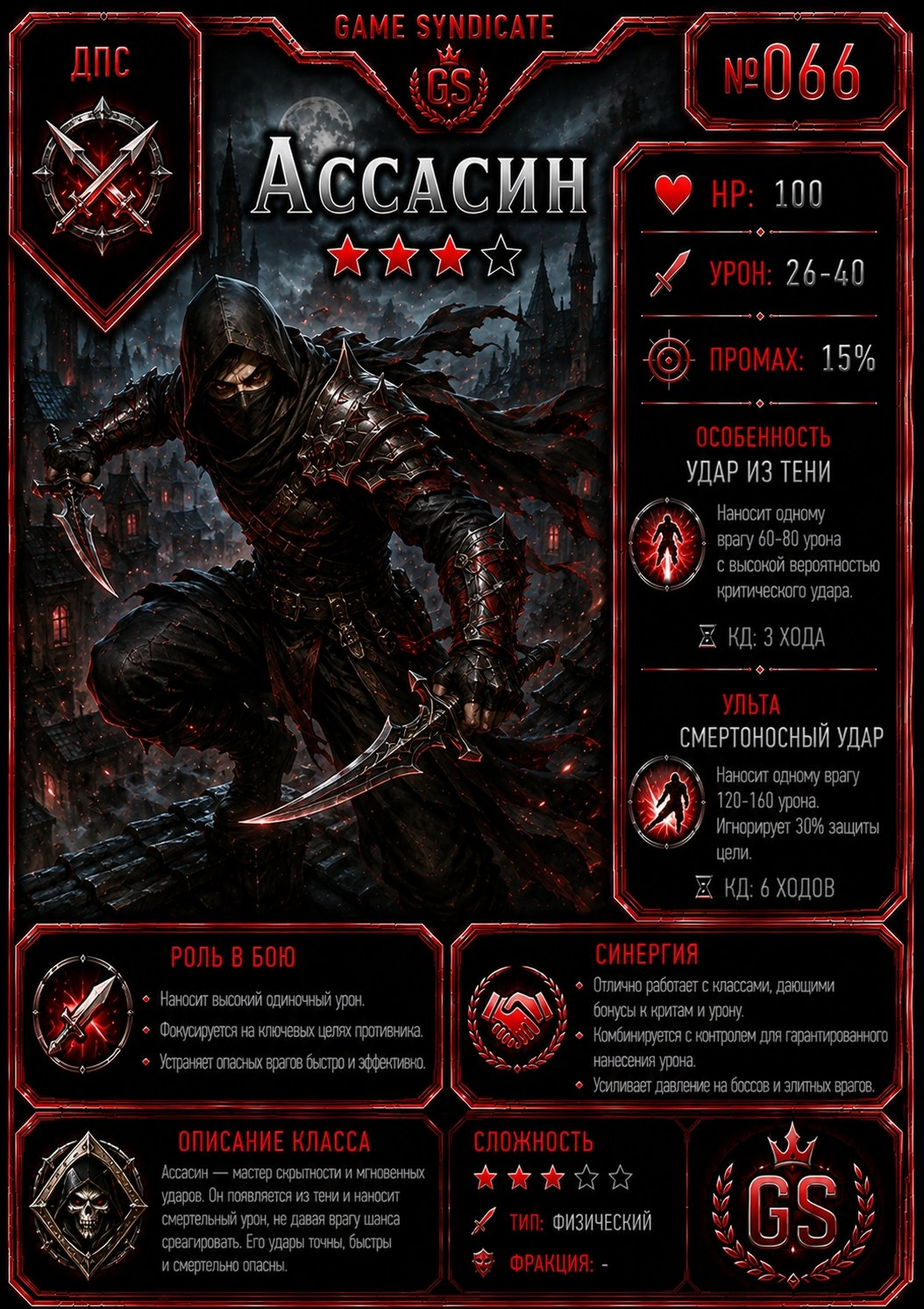
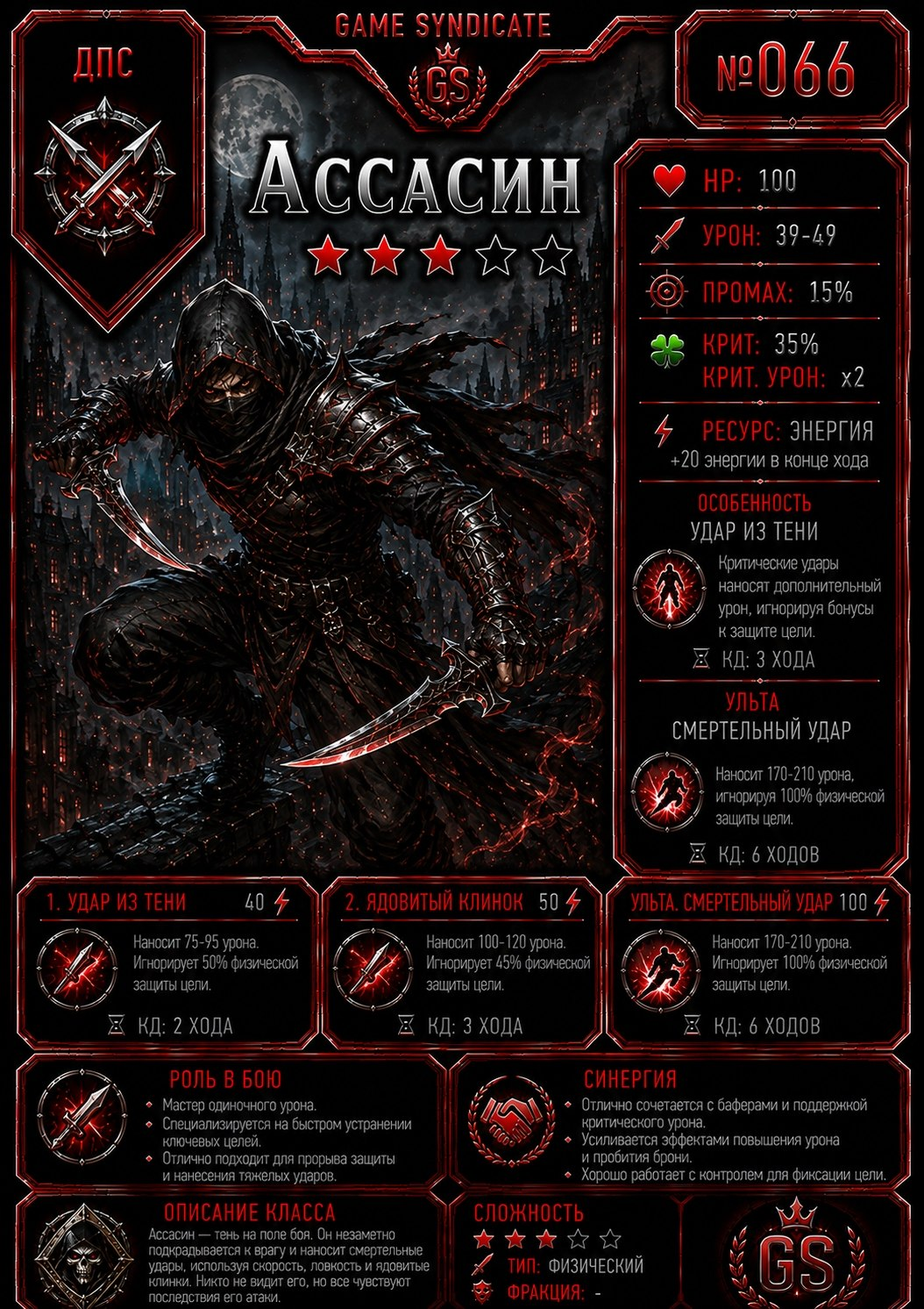
rgn

diff --git a/services/worldBoss/worldBossSystem.js b/services/worldBoss/worldBossSystem.js
@@ -626,12 +626,21 @@ function useSkill(b, p, c, e, state, targetId) {
     case 'cleric': { const t = targetById(id, targetId) || p, sacrifice = Math.min(rand(30, 45), Math.max(0, p.hp - 1)); if (sacrifice <= 0) return `💔 <@${u}> не хватает HP для жертвы.`; db.prepare('UPDATE world_boss_players SET hp=? WHERE battle_id=? AND user_id=?').run(p.hp - sacrifice, id, u); const healed = healPlayer(id, u, t, sacrifice); return `💚 <@${u}> жертвует **${sacrifice} HP** и лечит <@${t.user_id}> на **${healed} HP**.`; }
     case 'priest': { state.summons = (state.summons || []).filter(x => x.owner !== u || x.type !== 'angel'); state.summons.push({ owner: u, type: 'angel', icon: '👼', name: 'Ангел-хранитель', hp: 75, maxHp: 75, heal: [12, 20], rounds: 4, support: true }); saveState(b, state); return `👼 <@${u}> призывает Ангела-хранителя на 4 хода. В конце каждого раунда ангел лечит всю живую группу.`; }
     case 'bard': { const t = targetById(id, targetId) || p, te = effects(t); te.damageBuffTurns = 3; te.damageBuff = 0.15; updateEffects(id, t.user_id, te); return `🎵 <@${u}> усиливает <@${t.user_id}> на 15% на 3 хода.`; }
-    case 'assassin': { const r = hurtEnemy(b, state, rand(60, 80), 'physical', 'assassin', 0.5); db.prepare('UPDATE world_boss_players SET damage_done=damage_done+?,contribution=contribution+? WHERE battle_id=? AND user_id=?').run(r.dealt, r.dealt, id, u); return `🗡 <@${u}> наносит **${r.dealt}** теневого урона.`; }
-    case 'archer': { let total = 0; for (let i = 0; i < 3; i++) if (Math.random() * 100 >= c.miss) total += hurtEnemy(b, state, rand(25, 40), 'physical', 'archer').dealt; db.prepare('UPDATE world_boss_players SET damage_done=damage_done+?,contribution=contribution+? WHERE battle_id=? AND user_id=?').run(total, total, id, u); return `🏹 <@${u}> выпускает 3 стрелы: **${total}** урона.`; }
-    case 'mage': { const r = hurtEnemy(b, state, rand(45, 65), 'magic', 'mage'); db.prepare('UPDATE world_boss_players SET damage_done=damage_done+?,contribution=contribution+? WHERE battle_id=? AND user_id=?').run(r.dealt, r.dealt, id, u); return `🔥 <@${u}> наносит **${r.dealt}** магического урона.`; }
+    case 'assassin': { const r = hurtEnemy(b, state, rand(75, 95), 'physical', 'assassin', 0.5); db.prepare('UPDATE world_boss_players SET damage_done=damage_done+?,contribution=contribution+? WHERE battle_id=? AND user_id=?').run(r.dealt, r.dealt, id, u); return `🗡 <@${u}> наносит **${r.dealt}** теневого урона.`; }
+    case 'archer': { let total = 0; for (let i = 0; i < 3; i++) if (Math.random() * 100 >= c.miss) total += hurtEnemy(b, state, rand(28, 36), 'physical', 'archer').dealt; db.prepare('UPDATE world_boss_players SET damage_done=damage_done+?,contribution=contribution+? WHERE battle_id=? AND user_id=?').run(total, total, id, u); return `🏹 <@${u}> выпускает 3 стрелы: **${total}** урона.`; }
+    case 'mage': { const r = hurtEnemy(b, state, rand(60, 80), 'magic', 'mage'); db.prepare('UPDATE world_boss_players SET damage_done=damage_done+?,contribution=contribution+? WHERE battle_id=? AND user_id=?').run(r.dealt, r.dealt, id, u); return `🔥 <@${u}> наносит **${r.dealt}** магического урона.`; }
     case 'berserker': { let total = 0, hits = 0; for (let i = 0; i < 3; i++) { if (Math.random() * 100 < c.miss) continue; const r = hurtEnemy(b, state, Math.round(applyDamageBuff(p, rand(...c.damage)) * 0.62), 'physical', 'berserker'); total += r.dealt; hits++; } db.prepare('UPDATE world_boss_players SET damage_done=damage_done+?,contribution=contribution+? WHERE battle_id=? AND user_id=?').run(total,total,id,u); return `🪓 <@${u}> проводит тройной удар: **${hits}/3** попаданий, **${total}** урона.`; }
     case 'engineer': state.summons = (state.summons || []).filter(x => x.owner !== u || x.type !== 'turret'); state.summons.push({ owner: u, type: 'turret', icon: '🔫', name: 'Турель', hp: 80, maxHp: 80, damage: [16, 22], miss: 8, rounds: 4, damageType: 'physical' }); saveState(b, state); return `🔧 <@${u}> устанавливает турель на 4 раунда.`;
     case 'necromancer': { state.summons = state.summons || []; const own = state.summons.filter(x => x.owner === u && x.type === 'skeleton'); if (own.length >= 2) state.summons.splice(state.summons.indexOf(own[0]), 1); state.summons.push({ owner: u, type: 'skeleton', icon: '💀', name: 'Скелет', hp: 55, maxHp: 55, damage: [13, 19], miss: 12, rounds: 4, damageType: 'physical' }); saveState(b, state); return `💀 <@${u}> призывает **1 скелета** на 4 раунда.`; }
+
+    case 'pyromancer': { const r=hurtEnemy(b,state,rand(50,70),'magic','pyromancer'); state.burnStacks=Math.min(5,Number(state.burnStacks||0)+1); saveState(b,state); db.prepare('UPDATE world_boss_players SET damage_done=damage_done+?,contribution=contribution+? WHERE battle_id=? AND user_id=?').run(r.dealt,r.dealt,id,u); return `🔥 <@${u}> наносит **${r.dealt}** урона и накладывает Горение (${state.burnStacks}/5).`; }
+    case 'duelist': { const r=hurtEnemy(b,state,rand(55,70),'physical','duelist'); e.combo=Math.min(5,Number(e.combo||0)+1); db.prepare('UPDATE world_boss_players SET damage_done=damage_done+?,contribution=contribution+? WHERE battle_id=? AND user_id=?').run(r.dealt,r.dealt,id,u); return `⚔ <@${u}> делает выпад на **${r.dealt}** урона. Комбо: ${e.combo}/5.`; }
+    case 'reaper': { const r=hurtEnemy(b,state,rand(70,90),'physical','reaper'); db.prepare('UPDATE world_boss_players SET damage_done=damage_done+?,contribution=contribution+? WHERE battle_id=? AND user_id=?').run(r.dealt,r.dealt,id,u); return `☠ <@${u}> применяет Жатву: **${r.dealt}** урона.`; }
+    case 'mindlord': { const r=hurtEnemy(b,state,rand(60,80),'magic','mindlord'); db.prepare('UPDATE world_boss_players SET damage_done=damage_done+?,contribution=contribution+? WHERE battle_id=? AND user_id=?').run(r.dealt,r.dealt,id,u); return `🧠 <@${u}> наносит **${r.dealt}** психического урона.`; }
+    case 'druid': { const r=hurtEnemy(b,state,rand(45,60),'magic','druid'); state.bossWeakenRounds=2; state.bossWeaken=0.15; saveState(b,state); db.prepare('UPDATE world_boss_players SET damage_done=damage_done+?,contribution=contribution+? WHERE battle_id=? AND user_id=?').run(r.dealt,r.dealt,id,u); return `🌿 <@${u}> опутывает босса: **${r.dealt}** урона и -15% урона босса на 2 раунда.`; }
+    case 'shaman': state.teamDamageTotemRounds=3; state.teamDamageTotem=0.15; saveState(b,state); return `🪬 <@${u}> устанавливает Тотем силы: +15% урона союзников на 3 раунда.`;
+    case 'chronomancer': { const targets=validTargets(id,'alive').filter(x=>x.user_id!==u); const t=targets[0]||p; if(resourceType(t.class_key)==='mana') db.prepare('UPDATE world_boss_players SET mana=MIN(100,mana+30) WHERE battle_id=? AND user_id=?').run(id,t.user_id); else db.prepare('UPDATE world_boss_players SET energy=MIN(100,energy+30) WHERE battle_id=? AND user_id=?').run(id,t.user_id); return `⏳ <@${u}> ускоряет <@${t.user_id}> и восстанавливает 30 ресурса.`; }
+    case 'illusionist': state.summons=(state.summons||[]).filter(x=>x.owner!==u||x.type!=='illusion'); state.summons.push({owner:u,type:'illusion',icon:'🎭',name:'Иллюзия',hp:40,maxHp:40,damage:[0,0],miss:100,rounds:4,support:true}); saveState(b,state); return `🎭 <@${u}> создаёт иллюзию с 40 HP, способную принять атаку.`;
     default: return 'Способность использована.';
   }
 }
@@ -680,7 +689,7 @@ function useSecondSkill(b, p, c, e, state) {
       return `🎻 <@${u}> создаёт Диссонанс: **${r.dealt} магического урона**, следующая атака босса ослаблена на 12%.`;
     }
     case 'assassin': {
-      const r = hurtEnemy(b, state, rand(82, 112), 'physical', 'assassin', 0.45);
+      const r = hurtEnemy(b, state, rand(100, 120), 'physical', 'assassin', 0.45);
       db.prepare('UPDATE world_boss_players SET damage_done=damage_done+?,contribution=contribution+? WHERE battle_id=? AND user_id=?').run(r.dealt, r.dealt, id, u);
       return `☠ <@${u}> применяет Ядовитый клинок и наносит **${r.dealt} урона**, частично игнорируя защиту.`;
     }
@@ -691,18 +700,18 @@ function useSecondSkill(b, p, c, e, state) {
       return `🎯 <@${u}> ставит Метку охотника: босс получает **+15% урона на 2 раунда**.`;
     }
     case 'mage': {
-      const r = hurtEnemy(b, state, rand(58, 78), 'magic', 'mage');
+      const r = hurtEnemy(b, state, rand(65, 85), 'magic', 'mage');
       state.rage = Math.max(0, Number(state.rage || 0) - 25);
       saveState(b, state);
       db.prepare('UPDATE world_boss_players SET damage_done=damage_done+?,contribution=contribution+? WHERE battle_id=? AND user_id=?').run(r.dealt, r.dealt, id, u);
       return `❄ <@${u}> применяет Ледяные оковы: **${r.dealt} урона** и снижает ярость босса на **25**.`;
     }
     case 'berserker': {
-      const sacrifice = Math.max(1, Math.round(p.max_hp * 0.15));
+      const sacrifice = 20;
       const hp = Math.max(1, Number(p.hp || 1) - sacrifice);
-      db.prepare('UPDATE world_boss_players SET hp=?,energy=MIN(100,energy+60) WHERE battle_id=? AND user_id=?').run(hp, id, u);
+      db.prepare('UPDATE world_boss_players SET hp=? WHERE battle_id=? AND user_id=?').run(hp, id, u);
       e.doubleNext = true;
-      return `🩸 <@${u}> использует Кровавый рёв: теряет **${sacrifice} HP**, получает **+60 энергии**, следующая атака удвоена.`;
+      return `🩸 <@${u}> использует Кровавый рёв: теряет **${sacrifice} HP**, следующая атака удвоена.`;
     }
     case 'engineer': {
       let repaired = 0;
@@ -727,6 +736,15 @@ function useSecondSkill(b, p, c, e, state) {
       db.prepare('UPDATE world_boss_players SET damage_done=damage_done+?,contribution=contribution+? WHERE battle_id=? AND user_id=?').run(r.dealt, r.dealt + healed, id, u);
       return `🕯 <@${u}> применяет Похищение жизни: **${r.dealt} урона** и восстанавливает **${healed} HP**.`;
     }
+
+    case 'pyromancer': { const r=hurtEnemy(b,state,rand(65,85),'magic','pyromancer'); state.burnStacks=Math.min(5,Number(state.burnStacks||0)+1); saveState(b,state); db.prepare('UPDATE world_boss_players SET damage_done=damage_done+?,contribution=contribution+? WHERE battle_id=? AND user_id=?').run(r.dealt,r.dealt,id,u); return `🔥 <@${u}> применяет Пламя: **${r.dealt}** урона, Горение ${state.burnStacks}/5.`; }
+    case 'duelist': e.counterAttack=true; return `⚔ <@${u}> готовит Ответный удар и контратакует первую атаку босса до своего следующего хода.`;
+    case 'reaper': { const hp=Math.max(1,p.hp-20); db.prepare('UPDATE world_boss_players SET hp=? WHERE battle_id=? AND user_id=?').run(hp,id,u); e.doubleNext=true; return `🩸 <@${u}> платит 20 HP. Следующая атака наносит двойной урон.`; }
+    case 'mindlord': { const r=hurtEnemy(b,state,rand(65,75),'magic','mindlord'); state.magicVulnerabilityRounds=2; state.magicVulnerability=0.20; saveState(b,state); db.prepare('UPDATE world_boss_players SET damage_done=damage_done+?,contribution=contribution+? WHERE battle_id=? AND user_id=?').run(r.dealt,r.dealt,id,u); return `🧠 <@${u}> наносит **${r.dealt}** урона и повышает получаемый магический урон цели на 20% на 2 раунда.`; }
+    case 'druid': { for(const t of validTargets(id,'alive')){const te=effects(t);te.groupDamageRounds=2;te.groupDamage=Math.max(Number(te.groupDamage||0),0.15);te.accuracyBuffRounds=2;te.accuracyBuff=0.15;te.protectionBuffRounds=2;te.protectionBuff=0.15;updateEffects(id,t.user_id,te);} return `🐻🐺🦉 <@${u}> призывает Дух зверя: команда получает усиление выбранного духа.`; }
+    case 'shaman': state.teamDefenseTotemRounds=3; state.teamDefenseTotem=0.15; saveState(b,state); return `🛡 <@${u}> устанавливает Тотем защиты: -15% входящего урона на 3 раунда.`;
+    case 'chronomancer': { const targets=validTargets(id,'alive').filter(x=>x.user_id!==u); const t=targets[0]||p,te=effects(t); te.skillCd=Math.max(0,Number(te.skillCd||0)-1); te.skill2Cd=Math.max(0,Number(te.skill2Cd||0)-1); updateEffects(id,t.user_id,te); return `⏪ <@${u}> уменьшает КД способности <@${t.user_id}> на 1 ход.`; }
+    case 'illusionist': state.bossAccuracyDownRounds=2; state.bossAccuracyDown=0.20; saveState(b,state); return `🌫 <@${u}> создаёт Мираж: точность босса снижена на 20% на 2 раунда.`;
     default:
       return 'Вторая способность использована.';
   }
@@ -755,12 +773,21 @@ function useUlt(b, p, c, e, state, targetId) {
       }
       return `🎼 <@${u}> исполняет Гимн героев: вся группа получает **+20% урона на 2 раунда** и восстанавливает **20% максимального HP**${totalHealed ? ` — всего **${totalHealed} HP** (${healedTargets.join(', ')})` : ''}.`;
     }
-    case 'assassin': { const r = hurtEnemy(b, state, rand(120, 160), 'physical', 'assassin', 1); db.prepare('UPDATE world_boss_players SET damage_done=damage_done+?,contribution=contribution+? WHERE battle_id=? AND user_id=?').run(r.dealt, r.dealt, id, u); return `☠ <@${u}> наносит **${r.dealt}** смертельного урона.`; }
+    case 'assassin': { const r = hurtEnemy(b, state, rand(170, 210), 'physical', 'assassin', 1); db.prepare('UPDATE world_boss_players SET damage_done=damage_done+?,contribution=contribution+? WHERE battle_id=? AND user_id=?').run(r.dealt, r.dealt, id, u); return `☠ <@${u}> наносит **${r.dealt}** смертельного урона.`; }
     case 'archer': { const enemies = 1 + (state.minions || []).length; const pool = 240; const share = Math.floor(pool / Math.max(1, enemies)); let total = 0; for (const m of state.minions || []) { const d = Math.min(m.hp, share); const died = m.hp > 0 && m.hp - d <= 0; m.hp -= d; total += d; if (died) { state.log.push(`💀 Миньон босса **${m.name}** уничтожен градом стрел!`); state.deathStats = state.deathStats || { players: 0, bossMinions: 0, playerSummons: 0 }; state.deathStats.bossMinions = Number(state.deathStats.bossMinions || 0) + 1; } } state.minions = (state.minions || []).filter(x => x.hp > 0); const bossDamage = Math.min(b.boss_hp, pool - share * (enemies - 1)); db.prepare('UPDATE world_boss_battles SET boss_hp=MAX(0,boss_hp-?) WHERE id=?').run(bossDamage,id); total += bossDamage; saveState(b,state); db.prepare('UPDATE world_boss_players SET damage_done=damage_done+?,contribution=contribution+? WHERE battle_id=? AND user_id=?').run(total,total,id,u); return `🏹 <@${u}> обрушивает град стрел: **${total}** общего урона, распределённого между ${enemies} противниками.`; }
-    case 'mage': { const r = hurtEnemy(b, state, rand(140, 180), 'magic', 'mage'); db.prepare('UPDATE world_boss_players SET damage_done=damage_done+?,contribution=contribution+? WHERE battle_id=? AND user_id=?').run(r.dealt, r.dealt, id, u); return `☄ <@${u}> вызывает метеор: **${r.dealt}** урона.`; }
+    case 'mage': { const r = hurtEnemy(b, state, rand(160, 210), 'magic', 'mage'); db.prepare('UPDATE world_boss_players SET damage_done=damage_done+?,contribution=contribution+? WHERE battle_id=? AND user_id=?').run(r.dealt, r.dealt, id, u); return `☄ <@${u}> вызывает метеор: **${r.dealt}** урона.`; }
     case 'berserker': e.bloodRageTurns = 6; return `🔥 <@${u}> входит в Кровавую ярость на 6 своих ходов: двойной исходящий урон и +25% входящего урона.`;
     case 'engineer': state.summons = (state.summons || []).filter(x => x.owner !== u || x.type !== 'golem'); state.summons.push({ owner: u, type: 'golem', icon: '🤖', name: 'Голем', hp: 220, maxHp: 220, damage: [30, 42], miss: 5, rounds: 5, damageType: 'physical' }); saveState(b, state); return `🤖 <@${u}> призывает голема на 5 раундов.`;
     case 'necromancer': state.summons = (state.summons || []).filter(x => x.owner !== u || x.type !== 'army'); for (let i = 0; i < 4; i++) state.summons.push({ owner: u, type: 'army', icon: '🦴', name: 'Скелет армии', hp: 65, maxHp: 65, damage: [15, 21], miss: 10, rounds: 3, damageType: 'physical' }); saveState(b, state); return `💀 <@${u}> поднимает **4 скелетов армии** на 3 раунда.`;
+
+    case 'pyromancer': { const stacks=Number(state.burnStacks||0),r=hurtEnemy(b,state,rand(120,150)+stacks*35,'magic','pyromancer'); state.burnStacks=0; saveState(b,state); db.prepare('UPDATE world_boss_players SET damage_done=damage_done+?,contribution=contribution+? WHERE battle_id=? AND user_id=?').run(r.dealt,r.dealt,id,u); return `🔥 <@${u}> выпускает Адское пламя: **${r.dealt}** урона и взрывает ${stacks} стаков Горения.`; }
+    case 'duelist': { let total=0; for(let i=0;i<5;i++) total+=hurtEnemy(b,state,rand(40,50),'physical','duelist').dealt; db.prepare('UPDATE world_boss_players SET damage_done=damage_done+?,contribution=contribution+? WHERE battle_id=? AND user_id=?').run(total,total,id,u); return `⚔ <@${u}> проводит Идеальную серию: **${total}** урона.`; }
+    case 'reaper': { const fresh=db.prepare('SELECT boss_hp,boss_max_hp FROM world_boss_battles WHERE id=?').get(id); const bonus=fresh.boss_hp/fresh.boss_max_hp<0.3?80:0,r=hurtEnemy(b,state,160+bonus,'physical','reaper'); db.prepare('UPDATE world_boss_players SET damage_done=damage_done+?,contribution=contribution+? WHERE battle_id=? AND user_id=?').run(r.dealt,r.dealt,id,u); return `☠ <@${u}> выносит Приговор: **${r.dealt}** урона${bonus?' с бонусом добивания':''}.`; }
+    case 'mindlord': { const r=hurtEnemy(b,state,rand(150,180),'magic','mindlord'); state.rage=Math.max(0,Number(state.rage||0)-50); state.bossAccuracyDownRounds=2; state.bossAccuracyDown=0.20; saveState(b,state); db.prepare('UPDATE world_boss_players SET damage_done=damage_done+?,contribution=contribution+? WHERE battle_id=? AND user_id=?').run(r.dealt,r.dealt,id,u); return `🧠 <@${u}> контролирует сознание: **${r.dealt}** урона, -50 ярости и -20% точности босса на 2 раунда.`; }
+    case 'druid': { for(const t of validTargets(id,'alive')){const te=effects(t);te.groupDamageRounds=2;te.groupDamage=Math.max(Number(te.groupDamage||0),0.15);te.accuracyBuffRounds=2;te.accuracyBuff=0.15;te.protectionBuffRounds=2;te.protectionBuff=0.15;updateEffects(id,t.user_id,te);} return `🌳 <@${u}> активирует Силу природы: Медведь, Волк и Сова усиливают всю группу на 2 раунда.`; }
+    case 'shaman': state.teamDamageTotemRounds=3;state.teamDamageTotem=0.15;state.teamDefenseTotemRounds=3;state.teamDefenseTotem=0.15;state.healTotemRounds=3;saveState(b,state);return `🪬 <@${u}> созывает Совет духов: три тотема действуют 3 раунда.`;
+    case 'chronomancer': state.extraActionRound=true; saveState(b,state); return `⏳ <@${u}> открывает Временной разлом: все союзники получают дополнительное действие в следующем раунде.`;
+    case 'illusionist': for(let i=0;i<2;i++)state.summons.push({owner:u,type:'illusion',icon:'🎭',name:'Зеркальная копия',hp:60,maxHp:60,damage:[0,0],miss:100,rounds:3,support:true});state.bossAccuracyDownRounds=3;state.bossAccuracyDown=0.35;saveState(b,state);return `🪞 <@${u}> создаёт две копии по 60 HP и снижает точность всех врагов на 35% на 3 раунда.`;
     default: return 'Ульта использована.';
   }
 }

diff --git a/services/worldBoss/config.js b/services/worldBoss/config.js
@@ -1,18 +1,26 @@
 'use strict';
 
 const CLASSES = {
-  warrior:{name:'Воин',role:'tank',resourceType:'rage',damageType:'physical',physicalResist:18,magicResist:-8,cardId:2060,maxHp:180,damage:[28,36],miss:6,skill:{name:'Перехват',cost:40},secondSkill:{name:'Боевой клич',cost:50},ultimate:{name:'Несокрушимый удар',cost:100}},
+  warrior:{name:'Воин',role:'tank',resourceType:'rage',damageType:'physical',physicalResist:18,magicResist:-8,cardId:2060,maxHp:180,damage:[28,36],miss:6,skill:{name:'Перехват',cost:40},secondSkill:{name:'Боевой клич',cost:50},ultimate:{name:'Последний рубеж',cost:100}},
   paladin:{name:'Паладин',role:'tank',resourceType:'rage',damageType:'holy',physicalResist:12,magicResist:10,cardId:2061,maxHp:170,damage:[24,32],miss:7,skill:{name:'Щит веры',cost:40},secondSkill:{name:'Освящение',cost:50},ultimate:{name:'Благословение света',cost:100}},
   guardian:{name:'Страж',role:'tank',resourceType:'rage',damageType:'physical',physicalResist:25,magicResist:-12,cardId:2062,maxHp:200,damage:[22,30],miss:5,skill:{name:'Стальная защита',cost:40},secondSkill:{name:'Каменная стойка',cost:50},ultimate:{name:'Провокация',cost:100}},
   cleric:{name:'Клирик',role:'healer',resourceType:'energy',damageType:'holy',physicalResist:-12,magicResist:12,cardId:2063,maxHp:120,damage:[18,24],miss:6,skill:{name:'Передача жизни',cost:40},secondSkill:{name:'Карающий свет',cost:50},ultimate:{name:'Божественное исцеление',cost:100}},
   priest:{name:'Жрец',role:'healer',resourceType:'mana',damageType:'holy',physicalResist:-15,magicResist:15,cardId:2064,maxHp:125,damage:[20,26],miss:6,skill:{name:'Молитва жизни',cost:40},secondSkill:{name:'Массовая молитва',cost:50},ultimate:{name:'Воскрешение',cost:100}},
   bard:{name:'Бард',role:'healer',resourceType:'mana',damageType:'magic',physicalResist:-8,magicResist:8,cardId:2065,maxHp:130,damage:[18,25],miss:7,skill:{name:'Воодушевление',cost:40},secondSkill:{name:'Диссонанс',cost:50},ultimate:{name:'Гимн героев',cost:100}},
-  assassin:{name:'Ассасин',role:'dps',resourceType:'energy',damageType:'physical',physicalResist:3,magicResist:-5,cardId:2066,maxHp:100,damage:[36,46],miss:15,skill:{name:'Удар из тени',cost:40},secondSkill:{name:'Ядовитый клинок',cost:50},ultimate:{name:'Смертельный удар',cost:100}},
-  archer:{name:'Лучник',role:'dps',resourceType:'energy',damageType:'physical',physicalResist:5,magicResist:-6,cardId:2067,maxHp:110,damage:[35,48],miss:10,skill:{name:'3 удара',cost:40},secondSkill:{name:'Метка охотника',cost:50},ultimate:{name:'Дождь стрел',cost:100}},
-  mage:{name:'Маг',role:'dps',resourceType:'mana',damageType:'magic',physicalResist:-18,magicResist:20,cardId:2068,maxHp:95,damage:[25,38],miss:8,skill:{name:'Огненный шар',cost:40},secondSkill:{name:'Ледяные оковы',cost:50},ultimate:{name:'Метеор',cost:100}},
-  berserker:{name:'Берсерк',role:'support',resourceType:'energy',damageType:'physical',physicalResist:8,magicResist:-10,cardId:2069,maxHp:150,damage:[38,48],miss:10,skill:{name:'Тройной удар',cost:40},secondSkill:{name:'Кровавый рёв',cost:50},ultimate:{name:'Кровавая ярость',cost:100}},
+  assassin:{name:'Ассасин',role:'dps',resourceType:'energy',damageType:'physical',physicalResist:3,magicResist:-5,cardId:2066,maxHp:100,damage:[39,49],miss:15,critChance:35,critMultiplier:2,skill:{name:'Удар из тени',cost:40},secondSkill:{name:'Ядовитый клинок',cost:50},ultimate:{name:'Смертельный удар',cost:100}},
+  archer:{name:'Лучник',role:'dps',resourceType:'energy',damageType:'physical',physicalResist:5,magicResist:-6,cardId:2067,maxHp:110,damage:[37,47],miss:8,skill:{name:'Три выстрела',cost:40},secondSkill:{name:'Метка охотника',cost:50},ultimate:{name:'Дождь стрел',cost:100}},
+  mage:{name:'Маг',role:'dps',resourceType:'mana',damageType:'magic',physicalResist:-18,magicResist:20,cardId:2068,maxHp:95,damage:[28,38],miss:7,skill:{name:'Огненный шар',cost:40},secondSkill:{name:'Ледяные оковы',cost:50},ultimate:{name:'Метеор',cost:100}},
+  berserker:{name:'Берсерк',role:'dps',resourceType:'energy',damageType:'physical',physicalResist:8,magicResist:-10,cardId:2069,maxHp:150,damage:[38,48],miss:10,skill:{name:'Тройной удар',cost:40},secondSkill:{name:'Кровавый рёв',cost:50},ultimate:{name:'Кровавая ярость',cost:100}},
   engineer:{name:'Инженер',role:'support',resourceType:'energy',damageType:'physical',physicalResist:10,magicResist:-5,cardId:2070,maxHp:125,damage:[30,40],miss:9,skill:{name:'Турель',cost:40},secondSkill:{name:'Ремонтный дрон',cost:50},ultimate:{name:'Голем',cost:100}},
   necromancer:{name:'Некромант',role:'support',resourceType:'mana',damageType:'magic',physicalResist:-10,magicResist:18,cardId:2071,maxHp:115,damage:[32,43],miss:10,skill:{name:'Скелет',cost:40},secondSkill:{name:'Похищение жизни',cost:50},ultimate:{name:'Армия',cost:100}},
+  pyromancer:{name:'Пиромант',role:'dps',resourceType:'mana',damageType:'magic',physicalResist:-10,magicResist:12,cardId:2073,maxHp:105,damage:[26,36],miss:7,skill:{name:'Огненное копьё',cost:40},secondSkill:{name:'Пламя',cost:50},ultimate:{name:'Адское пламя',cost:100}},
+  duelist:{name:'Дуэлянт',role:'dps',resourceType:'energy',damageType:'physical',physicalResist:8,magicResist:-8,cardId:2074,maxHp:120,damage:[36,46],miss:6,skill:{name:'Выпад',cost:40},secondSkill:{name:'Ответный удар',cost:50},ultimate:{name:'Идеальная серия',cost:100}},
+  reaper:{name:'Жнец',role:'dps',resourceType:'energy',damageType:'physical',physicalResist:5,magicResist:-5,cardId:2075,maxHp:115,damage:[34,44],miss:8,skill:{name:'Жатва',cost:40},secondSkill:{name:'Кровавая цена',cost:50},ultimate:{name:'Приговор',cost:100}},
+  mindlord:{name:'Повелитель Разума',role:'dps',resourceType:'mana',damageType:'magic',physicalResist:-8,magicResist:12,cardId:2076,maxHp:105,damage:[28,38],miss:6,skill:{name:'Психический удар',cost:40},secondSkill:{name:'Психический надлом',cost:50},ultimate:{name:'Контроль сознания',cost:100}},
+  druid:{name:'Друид',role:'support',resourceType:'mana',damageType:'magic',physicalResist:5,magicResist:10,cardId:2077,maxHp:135,damage:[24,34],miss:10,skill:{name:'Опутывающие корни',cost:40},secondSkill:{name:'Дух зверя',cost:50},ultimate:{name:'Сила природы',cost:100}},
+  shaman:{name:'Шаман',role:'support',resourceType:'mana',damageType:'magic',physicalResist:3,magicResist:10,cardId:2078,maxHp:125,damage:[22,30],miss:7,skill:{name:'Тотем силы',cost:40},secondSkill:{name:'Тотем защиты',cost:50},ultimate:{name:'Совет духов',cost:100}},
+  chronomancer:{name:'Хрономант',role:'support',resourceType:'mana',damageType:'magic',physicalResist:2,magicResist:12,cardId:2079,maxHp:120,damage:[22,32],miss:6,skill:{name:'Ускорение',cost:40},secondSkill:{name:'Откат времени',cost:50},ultimate:{name:'Временной разлом',cost:100}},
+  illusionist:{name:'Иллюзионист',role:'support',resourceType:'mana',damageType:'magic',physicalResist:0,magicResist:12,cardId:2080,maxHp:115,damage:[20,30],miss:7,skill:{name:'Иллюзия',cost:40},secondSkill:{name:'Мираж',cost:50},ultimate:{name:'Зеркальный лабиринт',cost:100}},
 };
 
 const MINIONS = {

diff --git a/systems/hero/heroData.js b/systems/hero/heroData.js
@@ -1,16 +1,24 @@
 const HERO_CLASSES = Object.freeze({
-  warrior: { name: 'Воин', icon: '⚔', hp: 125, strength: 14, defense: 11, dexterity: 7, intelligence: 4, luck: 5, role: 'Танк / урон' },
-  paladin: { name: 'Паладин', icon: '🛡', hp: 120, strength: 11, defense: 13, dexterity: 5, intelligence: 7, luck: 5, role: 'Танк / поддержка' },
-  guardian: { name: 'Страж', icon: '🏰', hp: 135, strength: 9, defense: 15, dexterity: 4, intelligence: 4, luck: 4, role: 'Танк' },
-  berserker: { name: 'Берсерк', icon: '⚙', hp: 118, strength: 15, defense: 8, dexterity: 7, intelligence: 3, luck: 5, role: 'Поддержка / урон' },
-  assassin: { name: 'Ассасин', icon: '🗡', hp: 92, strength: 12, defense: 6, dexterity: 15, intelligence: 6, luck: 8, role: 'Урон' },
-  archer: { name: 'Лучник', icon: '🏹', hp: 102, strength: 10, defense: 7, dexterity: 14, intelligence: 6, luck: 9, role: 'Урон' },
-  engineer: { name: 'Инженер', icon: '🔧', hp: 108, strength: 8, defense: 9, dexterity: 9, intelligence: 14, luck: 6, role: 'Урон / поддержка' },
-  mage: { name: 'Маг', icon: '🔮', hp: 88, strength: 4, defense: 5, dexterity: 7, intelligence: 17, luck: 7, role: 'Магический урон' },
-  necromancer: { name: 'Некромант', icon: '☠', hp: 96, strength: 5, defense: 6, dexterity: 6, intelligence: 16, luck: 8, role: 'Магический урон' },
-  cleric: { name: 'Клирик', icon: '✝', hp: 105, strength: 6, defense: 8, dexterity: 5, intelligence: 15, luck: 7, role: 'Лечение' },
-  priest: { name: 'Жрец', icon: '✨', hp: 98, strength: 4, defense: 7, dexterity: 5, intelligence: 16, luck: 8, role: 'Лечение / поддержка' },
-  bard: { name: 'Бард', icon: '🎵', hp: 110, strength: 7, defense: 8, dexterity: 8, intelligence: 14, luck: 8, role: 'Поддержка / лечение' },
+  warrior: { name: 'Воин', icon: '⚔', hp: 180, strength: 14, defense: 18, dexterity: 7, intelligence: 4, luck: 5, role: 'Танк' },
+  paladin: { name: 'Паладин', icon: '🛡', hp: 170, strength: 11, defense: 16, dexterity: 5, intelligence: 9, luck: 5, role: 'Танк' },
+  guardian: { name: 'Страж', icon: '🏰', hp: 200, strength: 9, defense: 20, dexterity: 4, intelligence: 4, luck: 4, role: 'Танк' },
+  cleric: { name: 'Клирик', icon: '✝', hp: 120, strength: 6, defense: 8, dexterity: 5, intelligence: 15, luck: 7, role: 'Хиллер' },
+  priest: { name: 'Жрец', icon: '✨', hp: 125, strength: 4, defense: 7, dexterity: 5, intelligence: 16, luck: 8, role: 'Хиллер' },
+  bard: { name: 'Бард', icon: '🎵', hp: 130, strength: 7, defense: 8, dexterity: 8, intelligence: 14, luck: 8, role: 'Хиллер' },
+  berserker: { name: 'Берсерк', icon: '🪓', hp: 150, strength: 17, defense: 8, dexterity: 8, intelligence: 3, luck: 5, role: 'DPS' },
+  assassin: { name: 'Ассасин', icon: '🗡', hp: 100, strength: 13, defense: 6, dexterity: 17, intelligence: 6, luck: 10, role: 'DPS' },
+  archer: { name: 'Лучник', icon: '🏹', hp: 110, strength: 11, defense: 7, dexterity: 16, intelligence: 6, luck: 9, role: 'DPS' },
+  mage: { name: 'Маг', icon: '🔮', hp: 95, strength: 4, defense: 5, dexterity: 7, intelligence: 17, luck: 7, role: 'DPS' },
+  pyromancer: { name: 'Пиромант', icon: '🔥', hp: 105, strength: 4, defense: 6, dexterity: 7, intelligence: 17, luck: 7, role: 'DPS' },
+  duelist: { name: 'Дуэлянт', icon: '⚔', hp: 120, strength: 14, defense: 8, dexterity: 16, intelligence: 5, luck: 8, role: 'DPS' },
+  reaper: { name: 'Жнец', icon: '☠', hp: 115, strength: 15, defense: 7, dexterity: 12, intelligence: 6, luck: 7, role: 'DPS' },
+  mindlord: { name: 'Повелитель Разума', icon: '🧠', hp: 105, strength: 4, defense: 6, dexterity: 7, intelligence: 17, luck: 8, role: 'DPS' },
+  engineer: { name: 'Инженер', icon: '🔧', hp: 125, strength: 8, defense: 9, dexterity: 9, intelligence: 14, luck: 6, role: 'Поддержка' },
+  necromancer: { name: 'Некромант', icon: '☠', hp: 115, strength: 5, defense: 6, dexterity: 6, intelligence: 16, luck: 8, role: 'Поддержка' },
+  druid: { name: 'Друид', icon: '🌿', hp: 135, strength: 6, defense: 10, dexterity: 7, intelligence: 15, luck: 8, role: 'Поддержка' },
+  shaman: { name: 'Шаман', icon: '🪬', hp: 125, strength: 6, defense: 9, dexterity: 7, intelligence: 15, luck: 8, role: 'Поддержка' },
+  chronomancer: { name: 'Хрономант', icon: '⏳', hp: 120, strength: 4, defense: 8, dexterity: 8, intelligence: 17, luck: 9, role: 'Поддержка' },
+  illusionist: { name: 'Иллюзионист', icon: '🎭', hp: 115, strength: 4, defense: 7, dexterity: 9, intelligence: 16, luck: 10, role: 'Поддержка' },
 });
 
 const ORIGINS = Object.freeze({

diff --git a/UPDATE-V18.0.0-NEW-CLASSES.md b/UPDATE-V18.0.0-NEW-CLASSES.md
@@ -1,0 +1,5 @@
+# Game Syndicate Bot v18.0.0
+
+Добавлены 8 новых классов: Пиромант, Дуэлянт, Жнец, Повелитель Разума, Друид, Шаман, Хрономант, Иллюзионист.
+Обновлены карточки 060–080, Boss Pack, реестр коллекции, Гильдия, Экспедиции и World Boss.
+Обновлены параметры существующих DPS-классов по утверждённому балансу.
